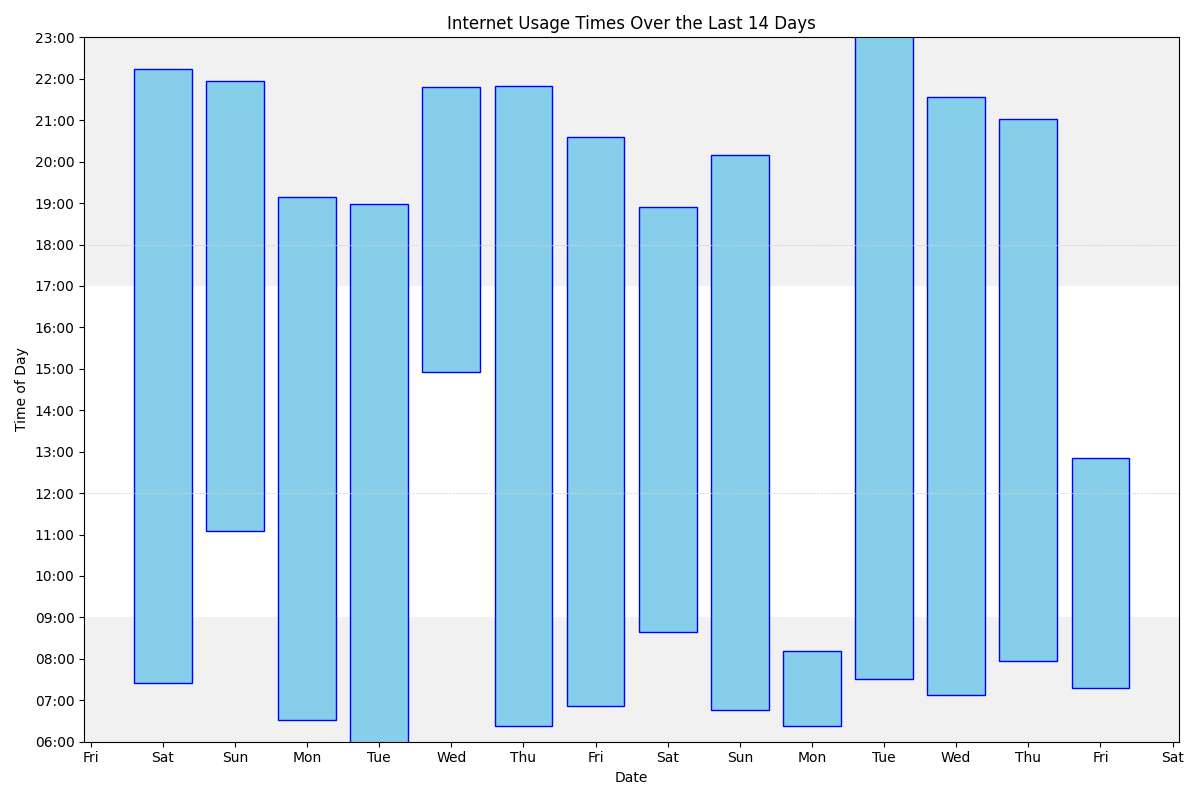
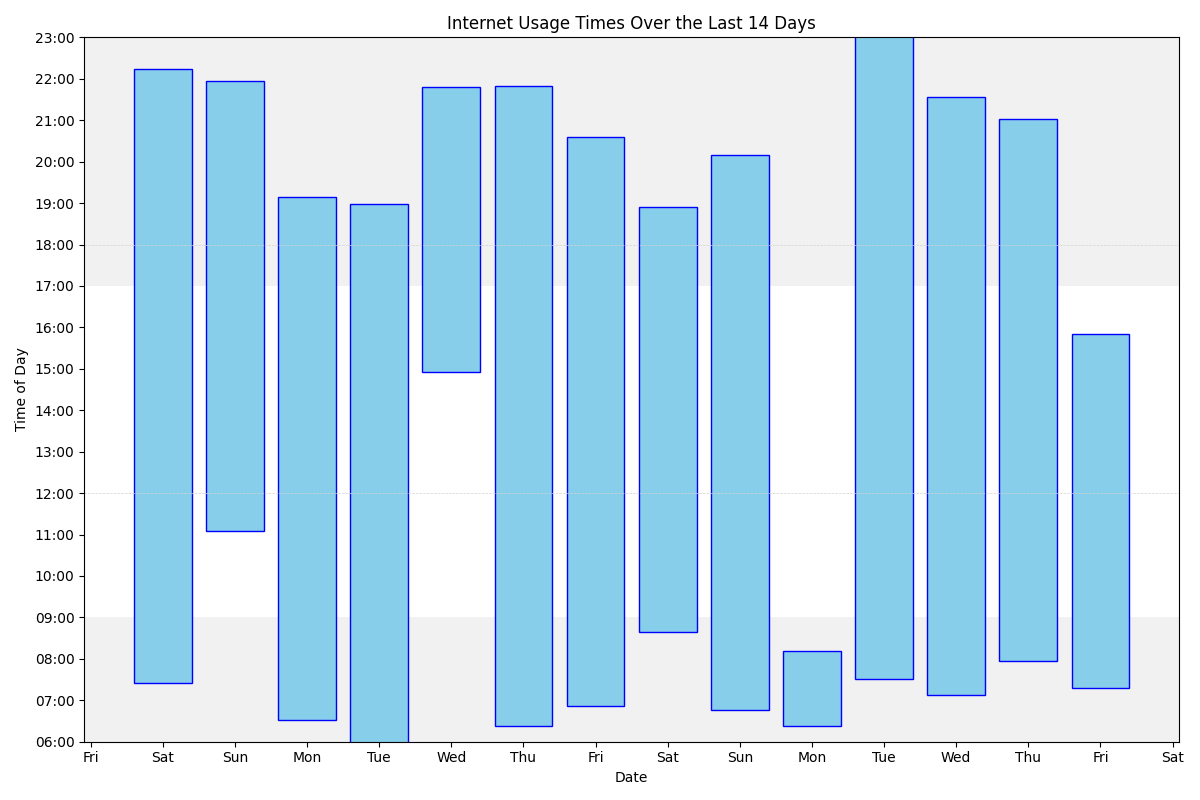
Update

Changed region(s): [[0.8942, 0.4062, 0.9558, 0.5938]]

diff --git a/index.md b/index.md
@@ -68,24 +68,24 @@ ul>li::after {
 <h3> Most common sites</h3>
 With number of accesses/minutes in parentheses
 
-<ol><li>www.google.com (1969)</li>
-<li>outlook.office365.com (1038)</li>
-<li>bsky.app (984)</li>
-<li>mail.google.com (901)</li>
-<li>outlook.office.com (869)</li>
+<ol><li>www.google.com (1978)</li>
+<li>outlook.office365.com (1039)</li>
+<li>bsky.app (992)</li>
+<li>mail.google.com (904)</li>
+<li>outlook.office.com (880)</li>
 <li>docs.google.com (789)</li>
-<li>www.facebook.com (561)</li>
+<li>www.facebook.com (563)</li>
 <li>rhul-my.sharepoint.com (296)</li>
 <li>www.reddit.com (280)</li>
-<li>chatgpt.com (277)</li>
+<li>chatgpt.com (279)</li>
 <li>www.amazon.co.uk (271)</li>
 <li>moodle.royalholloway.ac.uk (262)</li>
+<li>calendar.google.com (242)</li>
 <li>www.linkedin.com (241)</li>
-<li>calendar.google.com (238)</li>
 <li>login.microsoftonline.com (232)</li>
 <li>github.com (209)</li>
 <li>fritz.box (201)</li>
-<li>www.coursera.org (158)</li>
+<li>www.coursera.org (169)</li>
 <li>forms.office.com (138)</li>
 <li>ev.turnitinuk.com (126)</li>
 <li>drive.google.com (113)</li>
@@ -105,6 +105,81 @@ With number of accesses/minutes in parentheses
 <ul></ul>
 
 <H3>Friday, 24/01/25</H3>
+
+<br>
+
+<ul><li> 15:50 <a href="https://en.wikipedia.org/wiki/Hugh_Grant">Hugh Grant - Wikipedia</a></li>
+<li> 15:50 www.google.com</li>
+<li class='same'> 15:48 www.google.com</li>
+<li> 15:48 bsky.app</li>
+<li class='same'> 15:45 bsky.app</li>
+<li class='same'> 15:43 bsky.app</li>
+<li> 15:43 blueskydirectory.com</li>
+<li> 15:42 mail.google.com</li>
+<li class='same'> 15:41 mail.google.com</li>
+<li> 15:41 outlook.office.com</li>
+<li> 15:39 www.coursera.org</li>
+<li class='same'> 15:38 www.coursera.org</li>
+<li> 15:34 outlook.office.com</li>
+<li> 15:32 www.first.org</li>
+<li> 15:32 www.google.com</li>
+<li> 15:29 www.coursera.org</li>
+<li> 15:29 outlook.office.com</li>
+<li> 15:28 <a href="https://en.wikipedia.org/wiki/Spectre_(security_vulnerability)">Spectre (security vulnerability) - Wikipedia</a></li>
+<li> 15:28 <a href="https://en.wikipedia.org/wiki/Meltdown_(security_vulnerability)">Meltdown (security vulnerability) - Wikipedia</a></li>
+<li> 15:28 www.google.com</li>
+<li> 15:27 www.dell.com</li>
+<li> 15:27 nvd.nist.gov</li>
+<li> 15:27 www.google.com</li>
+<li> 15:26 <a href="https://en.wikipedia.org/wiki/Meltdown_(security_vulnerability)">Meltdown (security vulnerability) - Wikipedia</a></li>
+<li> 15:26 www.google.com</li>
+<li> 15:26 nvd.nist.gov</li>
+<li> 15:25 www.google.com</li>
+<li> 15:25 chatgpt.com</li>
+<li> 15:25 chat.openai.com</li>
+<li> 15:24 www.coursera.org</li>
+<li class='same'> 15:23 www.coursera.org</li>
+<li> 15:22 www.first.org</li>
+<li> 15:22 www.google.com</li>
+<li> 15:21 nvd.nist.gov</li>
+<li> 15:20 www.coursera.org</li>
+<li> 15:19 chatgpt.com</li>
+<li> 15:19 chat.openai.com</li>
+<li> 15:18 www.coursera.org</li>
+<li class='same'> 15:17 www.coursera.org</li>
+<li class='same'> 15:16 www.coursera.org</li>
+<li class='same'> 15:15 www.coursera.org</li>
+<li class='same'> 15:14 www.coursera.org</li>
+<li> 15:13 outlook.office.com</li>
+<li> 15:12 calendar.google.com</li>
+<li> 15:12 outlook.office.com</li>
+<li> 15:11 bsky.app</li>
+<li> 15:11 calendar.google.com</li>
+<li> 15:10 web.whatsapp.com</li>
+<li> 15:10 outlook.office.com</li>
+<li> 15:10 calendar.google.com</li>
+<li class='same'> 15:09 calendar.google.com</li>
+<li> 15:09 outlook.office.com</li>
+<li class='same'> 15:06 outlook.office.com</li>
+<li> 15:02 bsky.app</li>
+<li> 15:02 www.facebook.com</li>
+<li> 15:01 bsky.app</li>
+<li> 15:00 outlook.office.com</li>
+</ul>
+
+<br>
+
+<ul><li class='same'> 14:02 outlook.office.com</li>
+<li> 14:02 outlook.office365.com</li>
+<li> 14:02 outlook.office.com</li>
+<li> 14:02 mail.google.com</li>
+<li> 14:02 gmail.com</li>
+<li> 14:01 bsky.app</li>
+<li class='same'> 13:58 bsky.app</li>
+<li> 13:58 www.facebook.com</li>
+<li> 13:46 commonslibrary.parliament.uk</li>
+<li> 13:46 www.google.com</li>
+</ul>
 
 <br>
 
